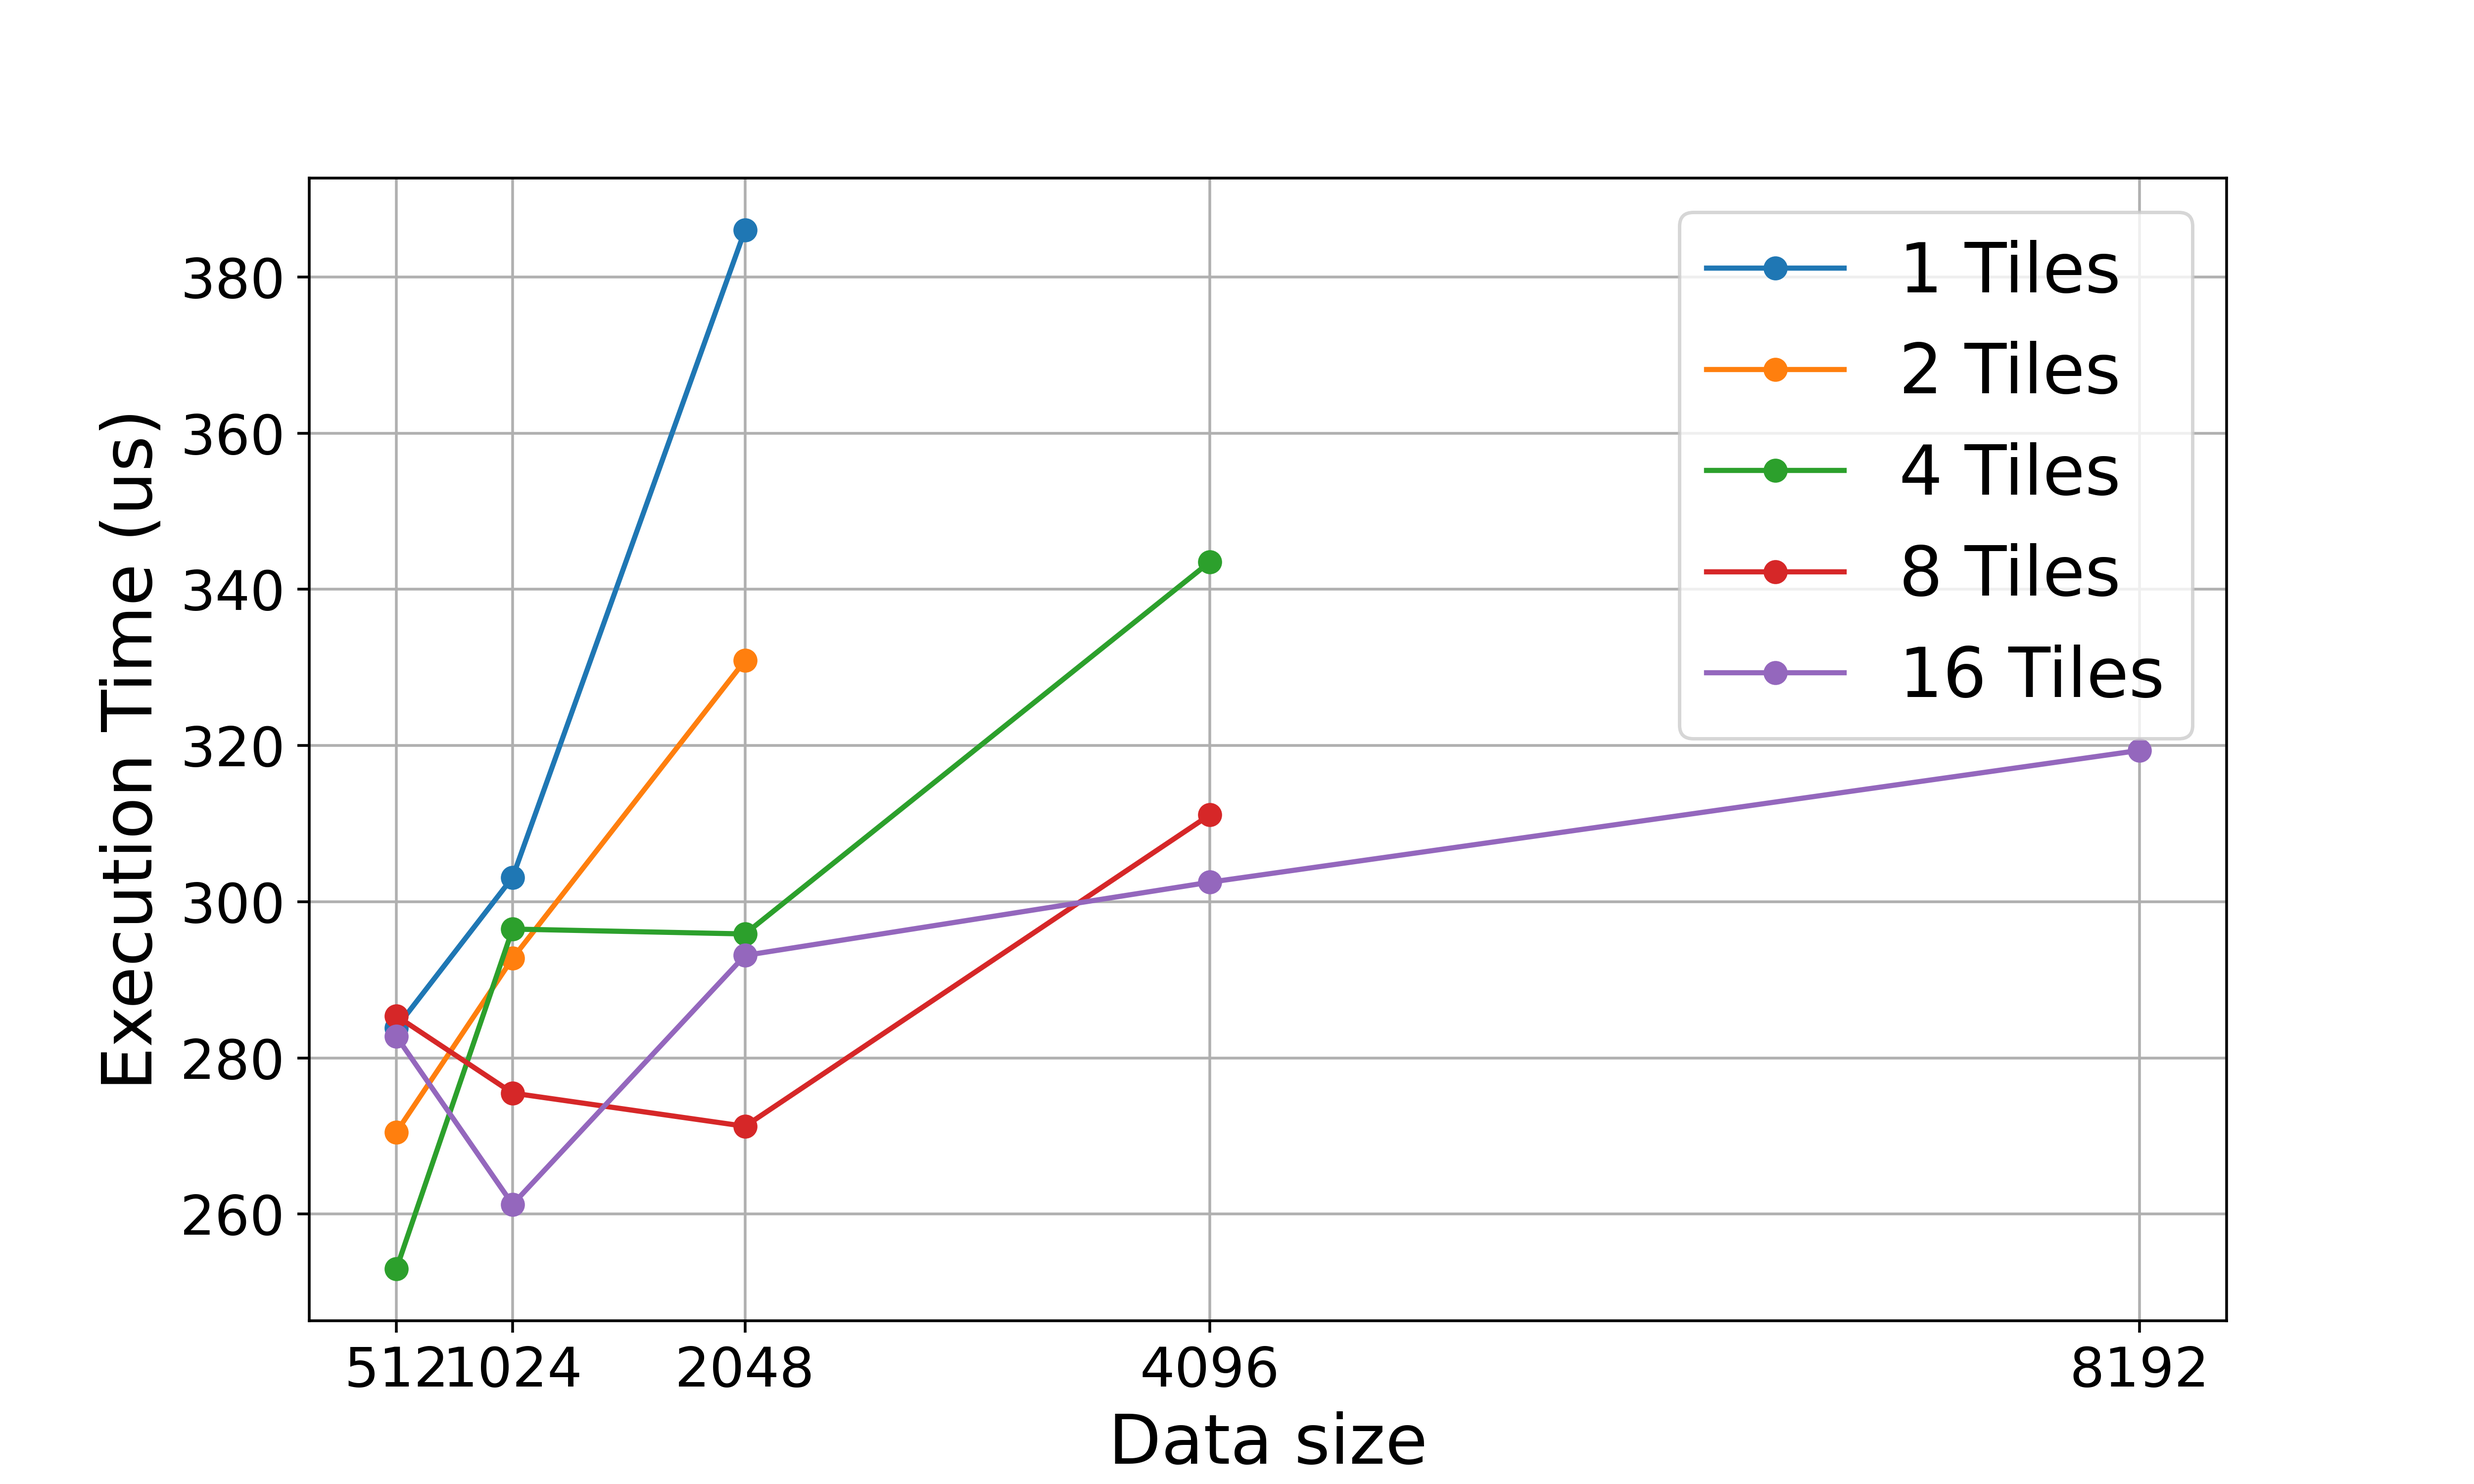
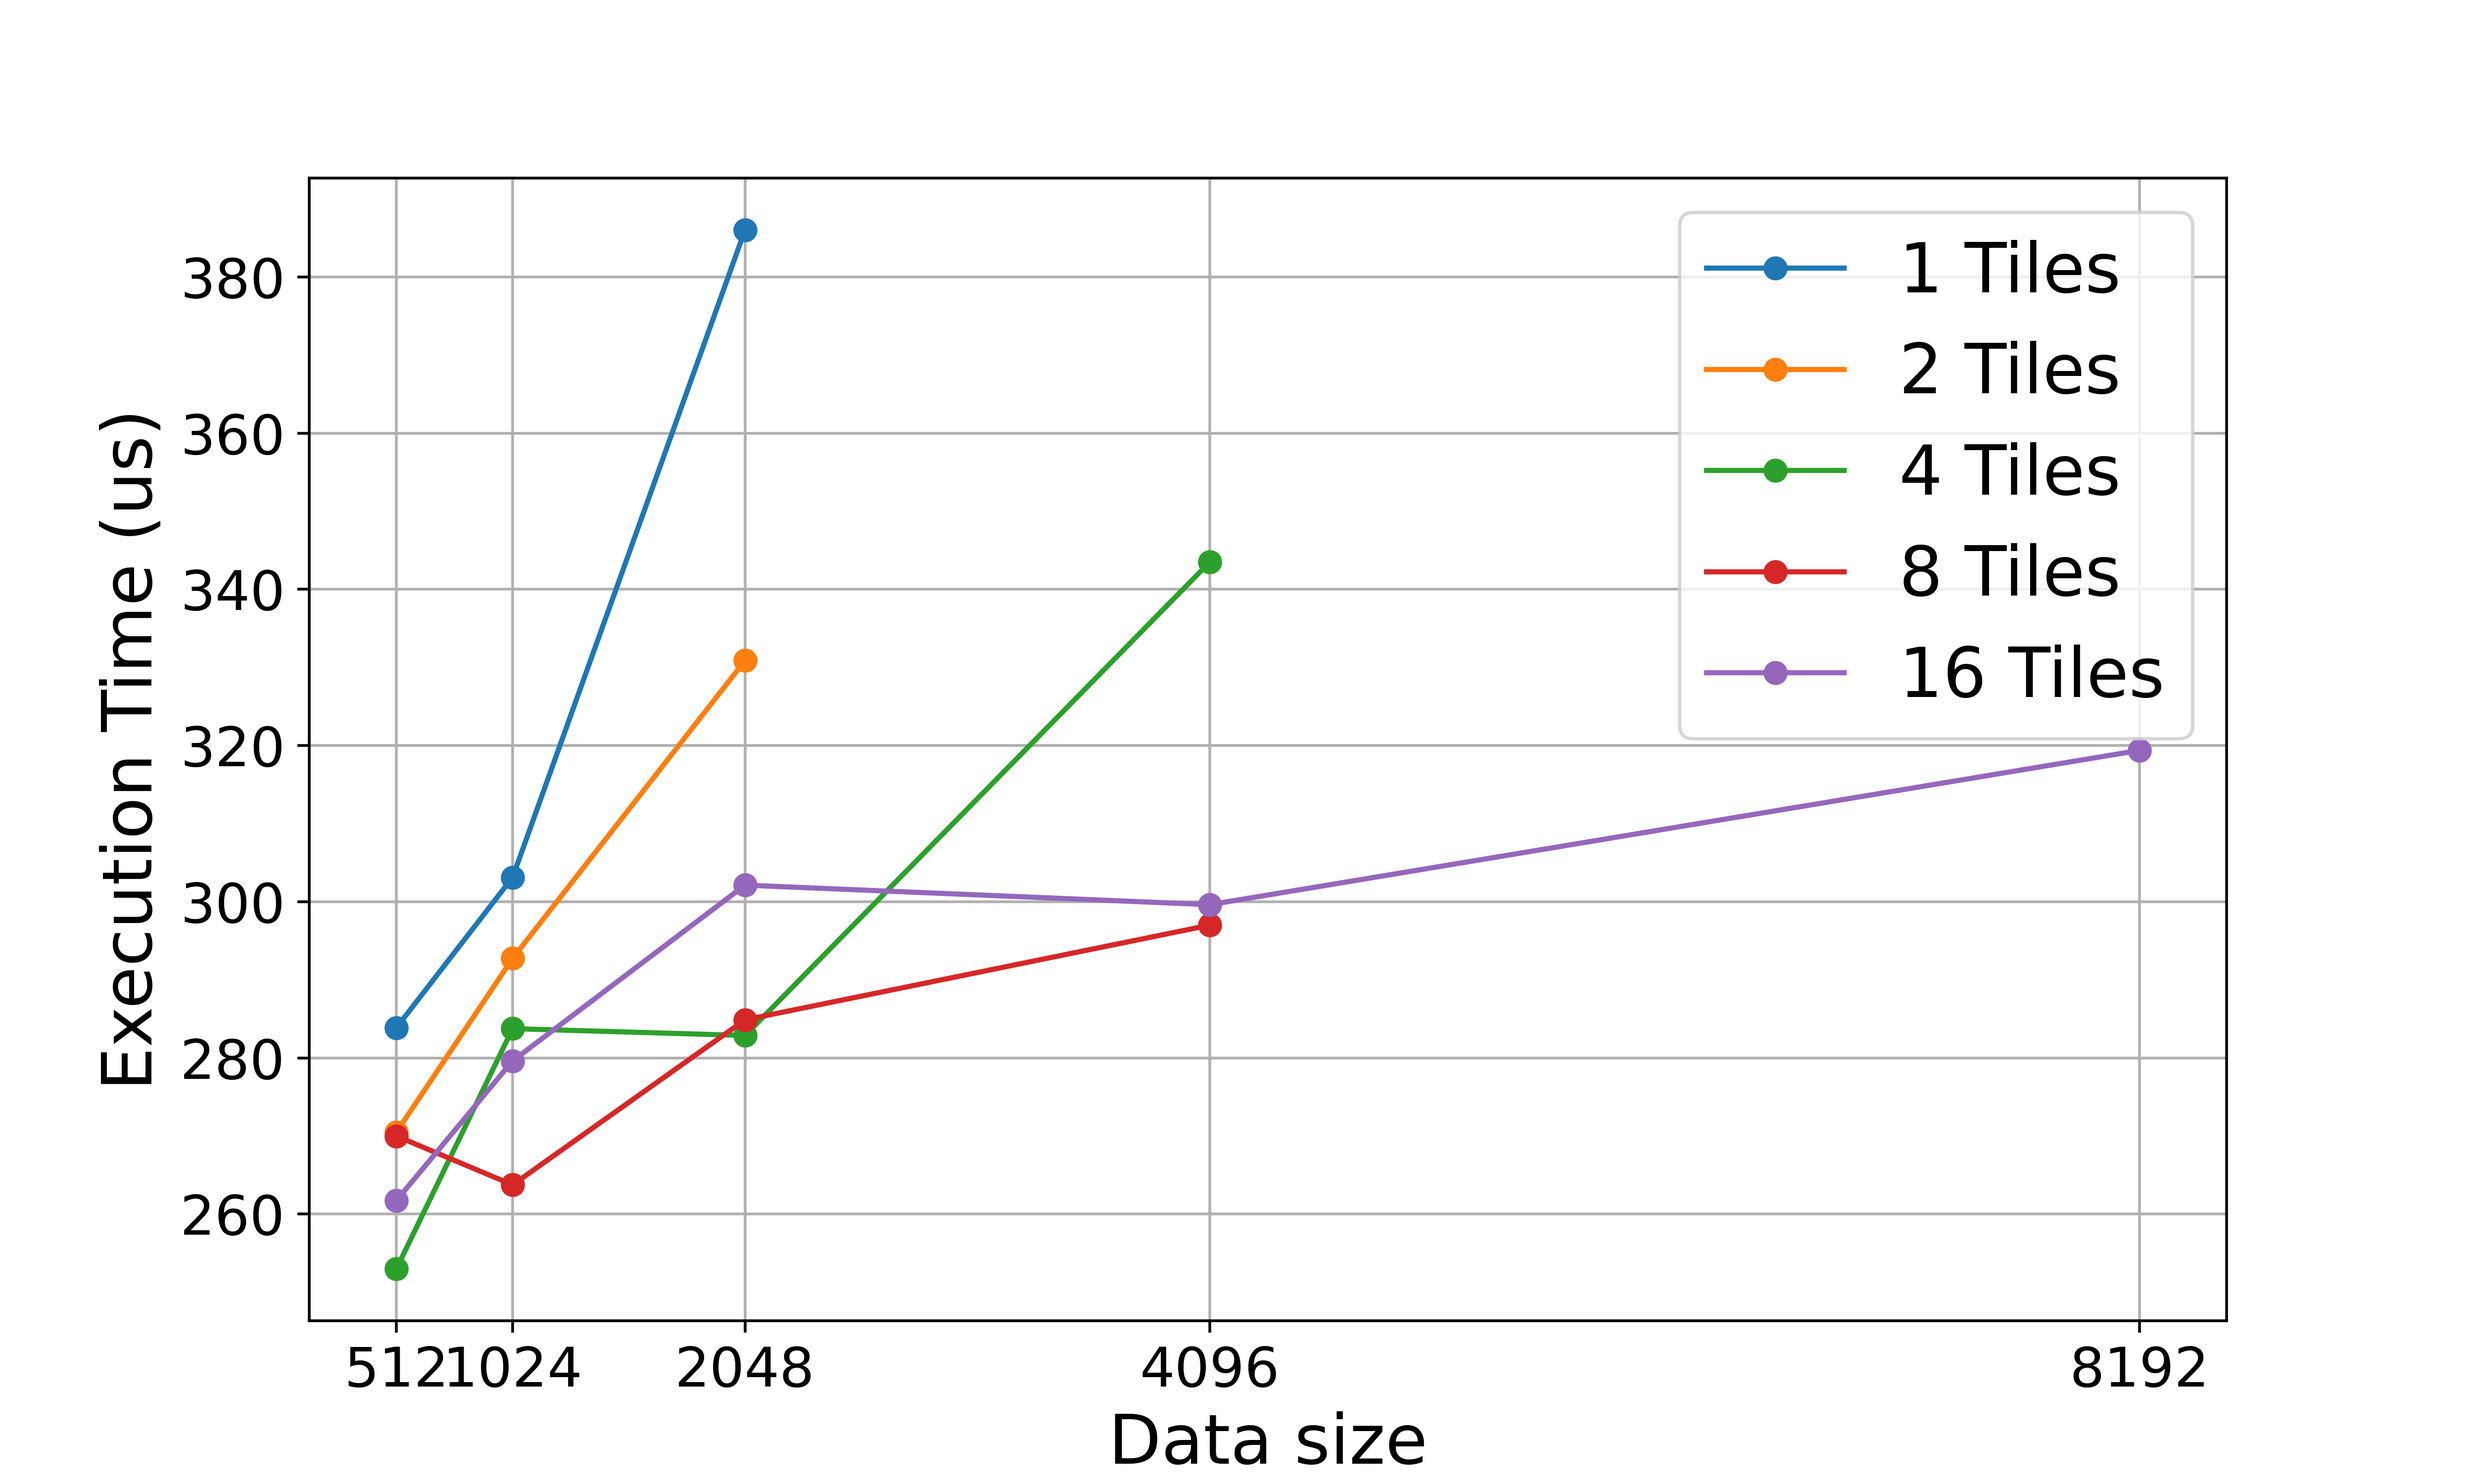
update profile

diff --git a/test.cpp b/test.cpp
@@ -45,12 +45,17 @@ int main(int argc, const char *argv[]) {
   // ============================
   // Test Parameters
   // ============================
-  constexpr int64_t n = 9;
-  constexpr int32_t test_stage = 8;  
-  const int block_num = 16;
-  std::array<int, block_num> ans_order = {0, 2, 1, 3, 8, 10, 9, 11, 4, 6, 5, 7, 12, 14, 13, 15};
+  constexpr int64_t n = 10;
+  constexpr int32_t test_stage = n - 1;  
+  const int block_num = 4;
+  std::array<int, block_num> ans_order = {0, 2, 1, 3};
+  
+  //const int block_num = 8;
+  //std::array<int, block_num> ans_order = {0, 2, 1, 3, 4, 6, 5, 7};
+  
+  //const int block_num = 16;
+  //std::array<int, block_num> ans_order = {0, 2, 1, 3, 8, 10, 9, 11, 4, 6, 5, 7, 12, 14, 13, 15};
   //std::array<int, block_num> ans_order = {0, 2, 1, 3, 4, 6, 5, 7, 8, 10, 9, 11, 12, 14, 13, 15};
-  //std::array<int, block_num> ans_order = {0, 1, 2, 3, 4, 5, 6, 7, 8, 9, 10, 11, 12, 13, 14, 15};
   
   // ============================
   // Constants

diff --git a/ntt-16core/aie2.py b/ntt-16core/aie2.py
@@ -19,7 +19,7 @@ import aie.utils.trace as trace_utils
 
 
 def ntt():
-    logN = 9
+    logN = 12
     N = 1 << logN
     N_in_bytes = N * 4
     p = 3329

diff --git a/ntt-4core/aie2.py b/ntt-4core/aie2.py
@@ -19,7 +19,7 @@ import aie.utils.trace as trace_utils
 
 
 def ntt():
-    logN = 7
+    logN = 10
     N = 1 << logN
     N_in_bytes = N * 4
     p = 3329

diff --git a/ntt-8core/aie2.py b/ntt-8core/aie2.py
@@ -19,7 +19,7 @@ import aie.utils.trace as trace_utils
 
 
 def ntt():
-    logN = 8
+    logN = 12
     N = 1 << logN
     N_in_bytes = N * 4
     p = 3329
